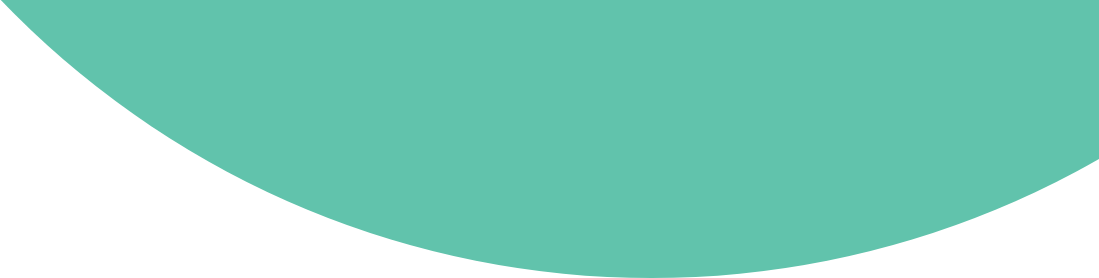
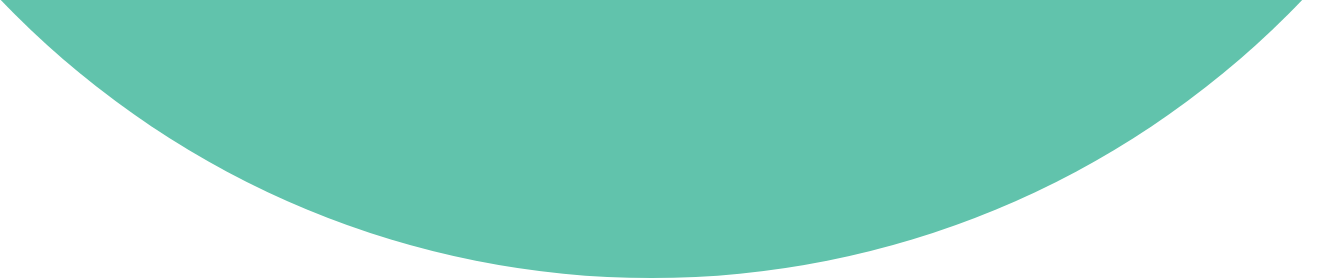
update

Changed region(s): [[0.0, 0.0, 1.0, 1.0]]

diff --git a/src/components/header.tsx b/src/components/header.tsx
@@ -3,7 +3,7 @@ import Image from "next/image";
 import Navigation from "./navigation";
 
 import Logo from '../../public/imagens/logo-header.png';
-import vector from '../../public/imagens/vector-header-2.png';
+import vector from '../../public/imagens/vector-header.png';
 
 export default function Header() {
   return (
